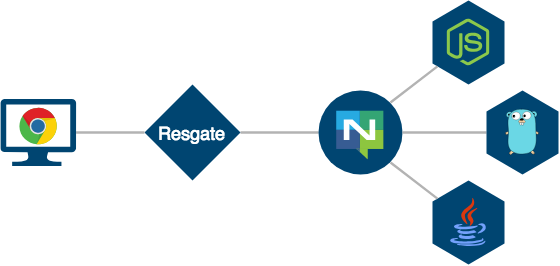
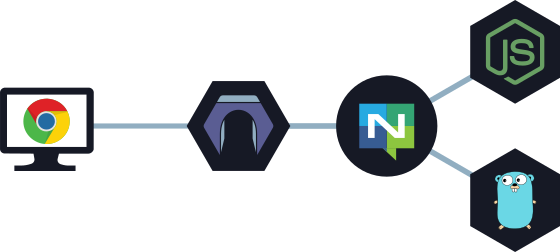
Updated Resgate blog post with reference to Resgate.io, new diagram image, and code example.

diff --git a/content/blog/resgate_nats.md b/content/blog/resgate_nats.md
@@ -23,7 +23,7 @@ REST APIs are nice. Simple. Stateless. Scalable. But to keep client data updated
 Being the lead developer of the cloud offering at a leading provider of contact center solutions, I had to deal with these issues. And with the help of NATS I have a solution.
 
 ## Resgate - a Realtime API Gateway
-The solution became the [*REsource Subscription (RES) Protocol*](https://github.com/jirenius/resgate/blob/master/docs/res-protocol.md), a simple JSON based protocol that revolves around the concept of *resources*, represented by JSON objects (*models*) and arrays (*collections*). And then [Resgate](https://github.com/jirenius/resgate), the gateway implementation that enables it all.
+The solution became the [*REsource Subscription (RES) Protocol*](https://github.com/jirenius/resgate/blob/master/docs/res-protocol.md), a simple JSON based protocol that revolves around the concept of *resources*, represented by JSON objects (*models*) and arrays (*collections*). And then [Resgate](https://resgate.io), the gateway implementation that enables it all.
 
 Resgate is a smart WebSocket-to-NATS (and REST-to-NATS) API gateway, written in Go. It is similar to NATS in its high performance and simple setup. By acting as a bridge between the web clients and the (micro-)services, fetching resources, forwarding method calls, and passing on events, it also handles **access control**, **syncing**, **resource caching**, and more.
 
@@ -40,7 +40,7 @@ A simple NATS+Resgate setup would look like this:
 </p>
 
 
-Resgate becomes the single entry point for all clients. While there might be one macro-service, or a hundred micro-services, connected to NATS, the client that accesses the API will perceive it as a single unified API.
+Resgate, the blue archway, becomes the single entry point for all clients. While there might be one macro-service, or a hundred micro-services, connected to NATS, the client that accesses the API will perceive it as a single unified API.
 
 The service(s), which can be written in any language supported by NATS server, will listen to requests similar to REST. But instead of using HTTP, the service will listen and reply to requests published over NATS.
 
@@ -83,7 +83,9 @@ nats.subscribe('access.models.mymodel', function(req, reply) {
 
 // Updating the model
 mymodel.message = "Hello NATS+Resgate";
-nats.publish('event.models.mymodel.change', JSON.stringify({ message: mymodel.message }));
+nats.publish('event.models.mymodel.change', JSON.stringify({
+  values: { message: mymodel.message }
+}));
 ```
 
 <img align="right" alt="Wolf match maker" src="/img/blog/resgate-nats/wolf_now_kiss_135x240.png">
@@ -107,14 +109,14 @@ There are two ways to get the resources from Resgate:
 ```js
 let client = new ResClient('ws://api.example.com');
 client.get('models.mymodel').then(model => {
-    console.log(model.message); // Hello NATS
+  console.log(model.message); // Hello NATS
 });
 ```
 
 But when using ResClient, that communicates over WebSockets, your resources are updated in real time!
 ```js
 let changeHandler = function() {
-    console.log("Updated: " + model.message); // Updated: Hello NATS+Resgate
+  console.log("Updated: " + model.message); // Updated: Hello NATS+Resgate
 }
 
 // Subscribe to events
@@ -154,9 +156,10 @@ Access control is done on the level of resources and resource methods. Access ca
 
  With NATS+Resgate and the REsource Subscription (RES) protocol, you can get real time updates to your web clients while gaining functionality such as **end-user authentication**, **resource caching**, and **data-loss recovery**. And it is **fast** and **simple**!
 
- While the project is young, the first version of the protocol is settled, where no changes will be added that breaks backwards compatibility. Resgate will continue to get battle tested as the number of projects where the gateway is deployed in increases. Meanwhile, steps are being taken to provide a proper website with guides and examples to ease introduction and development of services for NATS+Resgate.
- 
-If you are interested in knowing more, visit the project page on [Github](https://github.com/jirenius/resgate).  
+ While the project is young, the first version of the protocol is settled, where no changes will be added that breaks backwards compatibility. Resgate will continue to get battle tested as the number of projects where the gateway is deployed in increases.
+
+If you are interested in knowing more, visit the [Resgate.io](https://resgate.io) website, which contains guides, examples, and resources to ease introduction and development of services for NATS+Resgate.
+
 Or if you have any question or feedback, don't hesitate to contact me directly via email:
 
 [samuel@jirenius.com](mailto:samuel@jirenius.com)
@@ -172,10 +175,11 @@ He has been working as the system architect and lead developer of Altitude Xperi
 Samuel is currently working at [PRO NON X](https://www.prononx.se/).
 
 ## Links
-* **[Resgate](https://github.com/jirenius/resgate)** - project page for the realtime API gateway
-* **[ResClient](https://www.npmjs.com/package/resclient)** - RES client library for javascript
-* **[Resgate Test App](https://github.com/jirenius/resgate-test-app)** - test application used to test and develop Resgate
-* **[go-res](https://github.com/jirenius/go-res)** - RES service library for Go
+* **[Resgate.io](https://resgate.io)** - web site with examples, guides, and resources
+* **[GitHub - Resgate](https://github.com/jirenius/resgate)** - repository for the realtime API gateway
+* **[GitHub - ResClient](https://www.npmjs.com/package/resclient)** - RES client library for javascript
+* **[GitHub - Resgate Test App](https://github.com/jirenius/resgate-test-app)** - test application used to test and develop Resgate
+* **[GitHub - go-res](https://github.com/jirenius/go-res)** - RES service library for Go
 
 
 ## Examples
